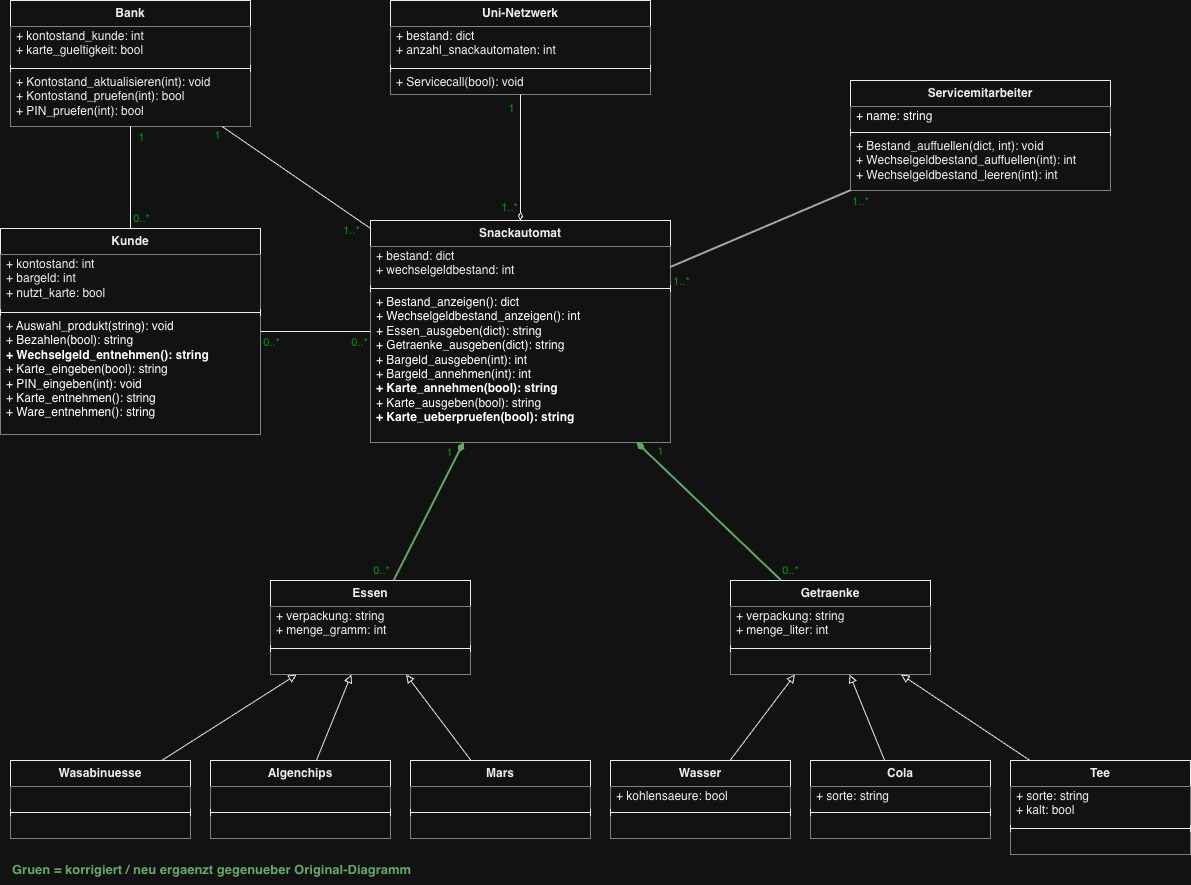
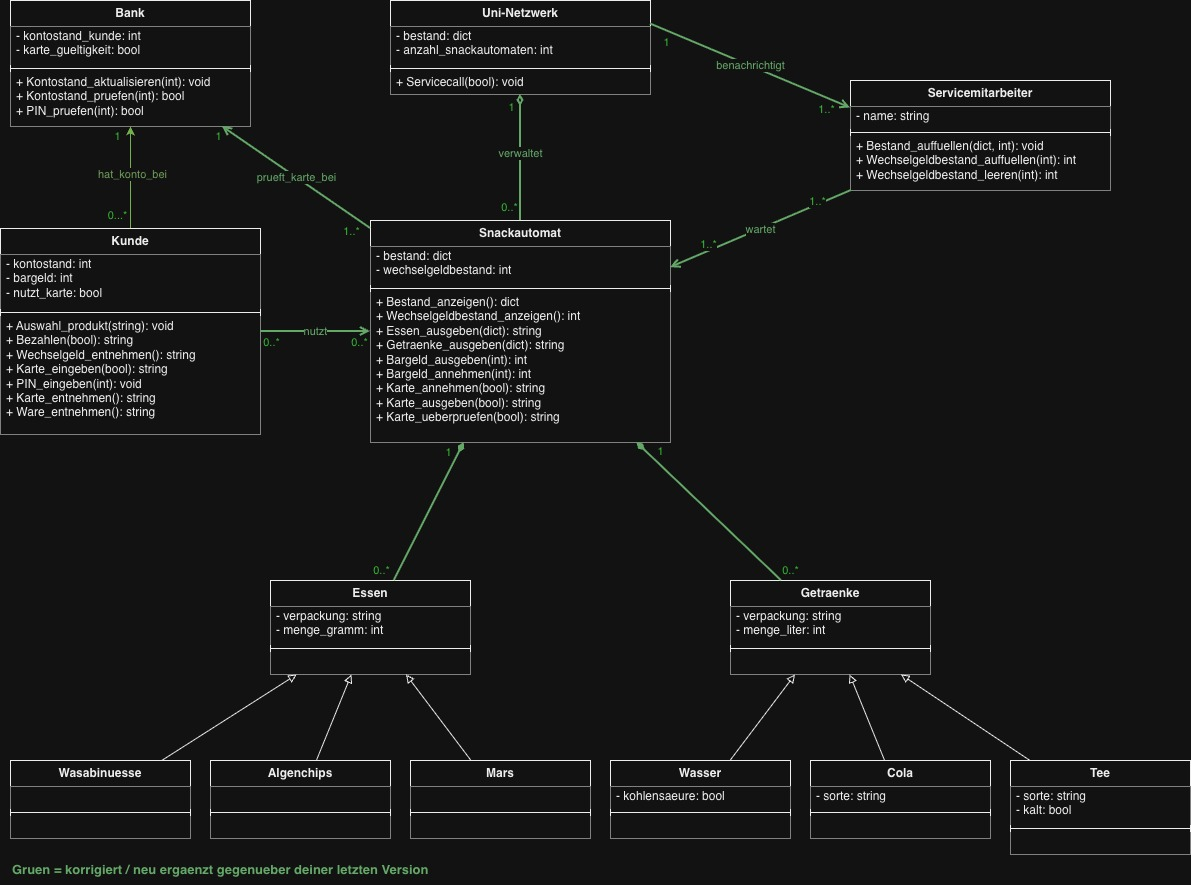
fix: klassendiagramm. add: präsentation

diff --git a/snackautomat/services/uni_netzwerk.py b/snackautomat/services/uni_netzwerk.py
@@ -15,5 +15,3 @@ class Uni_Netzwerk:
 snackautomat1 = Snackautomat("Automat 1", 40, 200, 0.8)
 
 print(snackautomat1.bestand)
-
-#...